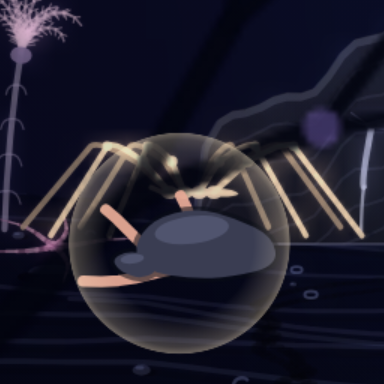
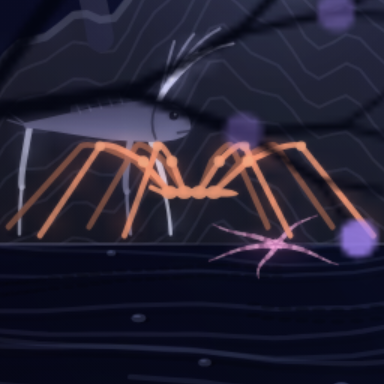
Sea spider rust-coloured instead of glaring cream

diff --git a/src/game/render/life.ts b/src/game/render/life.ts
@@ -374,7 +374,10 @@ export function createLife(seed: number) {
     if (nearest.d < Infinity) spot('star-march', nearest.x, nearest.y, 40 * s);
   }
 
-  /** A giant sea spider picking its way across the floor; touched, it freezes and folds its legs in. */
+  /**
+   * A giant sea spider picking its way across the floor, rust-coloured (a pale one glared under the
+   * bloom); touched, it freezes and folds its legs in.
+   */
   function drawSeaSpider(ctx: CanvasRenderingContext2D, st: Stage, t: number): void {
     sight('sea-spider');
     const s = st.s * 1.6;
@@ -417,14 +420,14 @@ export function createLife(seed: number) {
     ctx.lineCap = 'round';
     ctx.lineJoin = 'round';
     ctx.lineWidth = 0.95 * s;
-    ctx.strokeStyle = 'rgba(170,148,124,0.85)';
+    ctx.strokeStyle = 'rgba(124,82,68,0.9)';
     ctx.stroke(far);
-    ctx.strokeStyle = 'rgba(232,208,176,0.95)';
+    ctx.strokeStyle = 'rgba(196,132,104,0.95)';
     ctx.stroke(near);
-    ctx.fillStyle = 'rgba(240,218,188,0.95)';
+    ctx.fillStyle = 'rgba(206,146,116,0.95)';
     ctx.fill(knees);
     // The trunk: segments, the proboscis ahead, and a short tail stub behind.
-    ctx.fillStyle = 'rgba(236,212,182,0.97)';
+    ctx.fillStyle = 'rgba(204,140,110,0.97)';
     ctx.beginPath();
     for (let j = 0; j < 4; j++) {
       const cx = x - 3.6 * s + j * 2.4 * s;
@@ -437,7 +440,7 @@ export function createLife(seed: number) {
     ctx.closePath();
     ctx.fill();
     ctx.lineWidth = 0.8 * s;
-    ctx.strokeStyle = 'rgba(236,212,182,0.97)';
+    ctx.strokeStyle = 'rgba(204,140,110,0.97)';
     ctx.beginPath();
     ctx.moveTo(x - 4.8 * s, by);
     ctx.lineTo(x - 6.6 * s, by - 0.8 * s);

diff --git a/src/client/portraits.ts b/src/client/portraits.ts
@@ -25,7 +25,7 @@ export const REDRAWN: readonly (readonly string[])[] = [
   // 3 (2026-11-08 day: seamount scenery)
   ['smokers', 'sea-pen', 'glass-shrimp', 'mantis-shrimp', 'dugong'],
   // 4 (2026-11-08 evening: residents and the never-redrawn)
-  ['guard-crab', 'goby', 'pistol-shrimp', 'whale-shark', 'sixgill', 'dragonfish', 'flying-fish', 'thorn-star', 'drill-snail', 'gull', 'fireworms', 'jelly', 'octopus', 'nautilus', 'turtle', 'seahorse', 'petrel', 'rattail'],
+  ['guard-crab', 'goby', 'pistol-shrimp', 'whale-shark', 'sixgill', 'dragonfish', 'flying-fish', 'thorn-star', 'drill-snail', 'gull', 'fireworms', 'jelly', 'octopus', 'nautilus', 'turtle', 'seahorse', 'petrel', 'rattail', 'sea-spider'],
 ];
 const ART_VERSION = REDRAWN.length - 1;
 

diff --git a/docs/PROGRESS.md b/docs/PROGRESS.md
@@ -1513,3 +1513,4 @@ date, what landed, what is half-done, what's next.
 - The seahorses: shaded darker along the back and paler down the belly (was one flat colour), pale freckles over the body, armour rings down the tail. In REDRAWN.
 - The storm petrels' white rump (#e8ecf2) glowed like a lamp on the dark bird under the bloom at night (measured 183,200,223 even from a #959daa fill): a smaller patch in #868e9b now reads as a pale rump. In REDRAWN.
 - The rattail (Silt Floor): rows of rough scales over the trunk, fading down the tail, and a lateral line from the gill cover to the tip (it was one flat gradient). In REDRAWN.
+- The giant sea spider (Silt Floor) was near-white cream (236,212,182) and glared yellow under the bloom: rust-coloured now (legs 196,132,104, far legs darker), as the giant ones often are. In REDRAWN.
